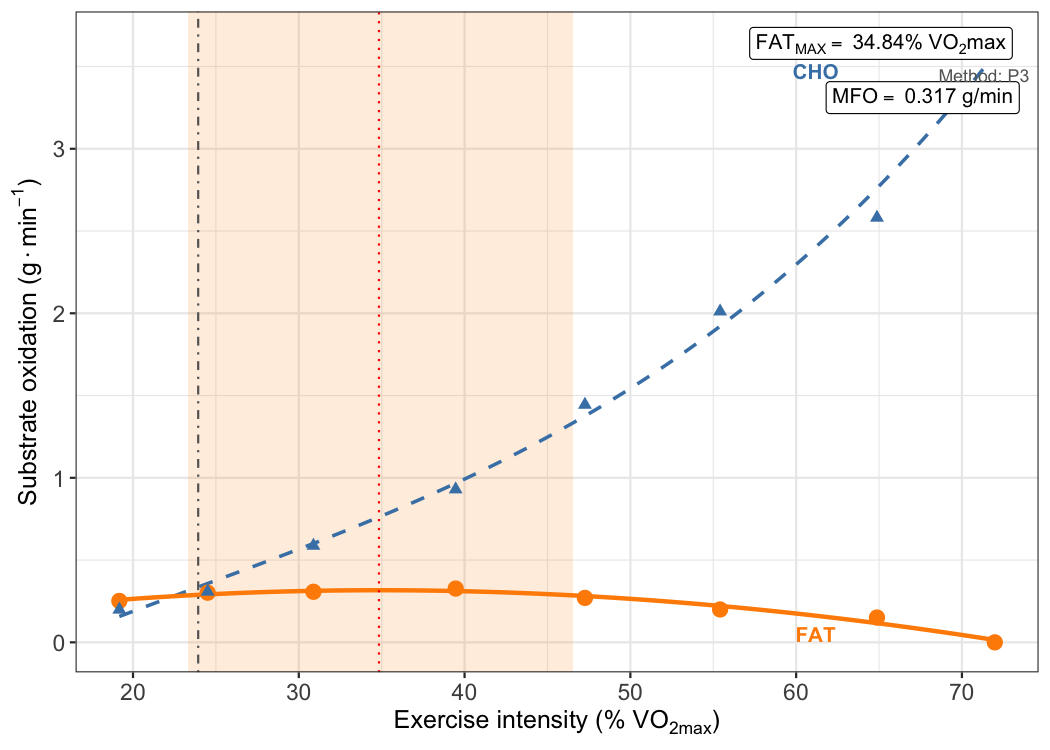
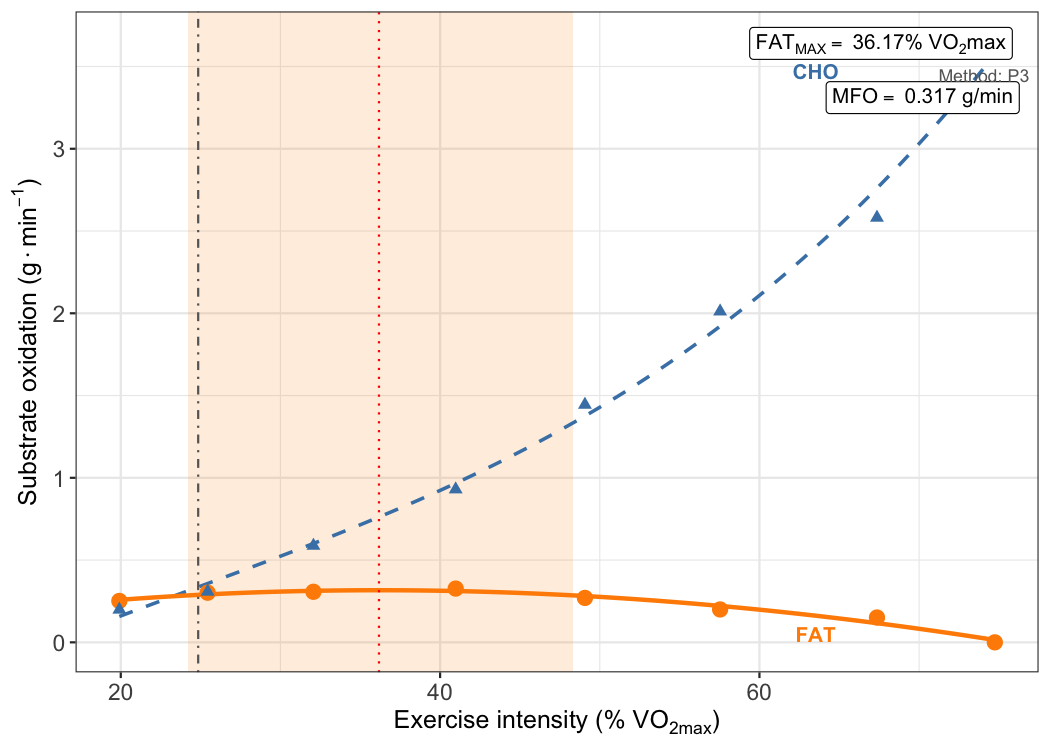
fix: compute VO2max as the highest rolling mean over vo2max_window
VO2max from db_graded was the single highest record, which overestimates
VO2max with short averaging intervals and shifts Fatmax to the left. MFO()
gains vo2max_window (default 30 s); when it is not a multiple of step_time
the number of records is rounded up and a message reports the effective
window. A supplied VO2max now wins over db_graded, with a warning.

MFO() returns VO2max, VO2max_window and VO2max_window_requested; MFOs()
passes vo2max_window through and adds VO2max columns. MFO (g/min) is
unchanged; Fatmax, zone and crossover scale by old/new VO2max (example:
VO2max 3442 -> 3315 ml/min, Fatmax 34.8 -> 36.2 %VO2max).

Refs: SPEC 9.5, 14

diff --git a/docs/SPEC.md b/docs/SPEC.md
@@ -253,7 +253,7 @@ El paquete tiene tres funciones exportadas y seis auxiliares internas, en ocho f
 **9.3 Flujo interno de `MFO()`, paso a paso**
 
 1. Valida `method` (P3/P2/MRER) y `negative_FAT` (truncate/exclude/keep).
-2. VO2max: si se pasa `db_graded`, toma `max(VO2)` de esa tabla; si no, usa `VO2max`.
+2. VO2max: si se pasa `VO2max`, se usa tal cual (y `db_graded` se ignora con aviso). Si no, la mayor media móvil de `vo2max_window` s (30 por defecto) en `db_graded`, redondeando hacia arriba al número de registros (30 s con registros de 20 s = 2 registros = 40 s). `MFO()` devuelve `VO2max`, `VO2max_window` (efectiva) y `VO2max_window_requested`. Hasta la v0.2.0 tomaba `max(VO2)` (corregido en 0.2.1, §9.5).
 3. `met_basal()` → valores de reposo.
 4. `calculate_vars()` → una fila por escalón con VO2, VCO2, HR, RER, CHO, FAT, kcal.
 5. Une la fila basal (escalón 0, con `HR = NA`) con los escalones y calcula `porc_VO2` = VO2/VO2max × 100. A continuación `na.omit()` elimina la fila basal (su HR es NA), de modo que el punto de reposo **no** llega al ajuste ni a `MFO_db` (§9.5).
@@ -274,7 +274,7 @@ El paquete tiene tres funciones exportadas y seis auxiliares internas, en ocho f
 
 **9.5 Observaciones de revisión del código (a corregir o documentar en v0.3.0)**
 
-- **VO2max = valor instantáneo máximo.** `max(db_graded$VO2)` toma el registro más alto, no una media de 30 s. Con datos a 20 s sobreestima el VO2max y desplaza Fatmax hacia la izquierda. Corregir con una media móvil configurable (por defecto 30 s) y permitir pasar el VO2max ya calculado por el laboratorio.
+- **VO2max = valor instantáneo máximo (corregido en 0.2.1).** `max(db_graded$VO2)` tomaba el registro más alto, no una media de 30 s. Con datos a 20 s sobreestima el VO2max y desplaza Fatmax hacia la izquierda. Corregido con `vo2max_window` (30 s por defecto; si no es múltiplo de `step_time` se redondea hacia arriba el número de registros y se informa de la ventana efectiva). Si se pasa `VO2max`, manda sobre `db_graded` (decisiones de Jorge, 10 nov 2026). En los datos de ejemplo: VO2max 3442 → 3315 mL/min, Fatmax 34,8 → 36,2 % VO2max, MFO sin cambios.
 - **Los basales siempre se calculan con Frayn**, aunque el usuario elija otra ecuación para el test. Es inconsistente y debe unificarse con `author`.
 - **Punto basal como escalón 0 (corregido 10 nov 2026).** Versiones anteriores de este documento decían que la fila de reposo entra en el ajuste polinómico. **No es así**: `MFO()` construye la fila basal con `HR = NA` y `na.omit(MFO_db)` la elimina antes de la política de negativos y del ajuste, así que la v0.1.0/v0.2.0 equivale de hecho a `include_basal = FALSE`, y la fila basal tampoco aparece en el `MFO_db` devuelto (los basales solo se ven en `x_CHO`, `x_FAT`, `x_Kcal`). Incluir el reposo como escalón 0 es la práctica de Montes de Oca et al. (2021), pero no todos los autores la siguen. Decisión (Jorge, 10 nov 2026): nuevo argumento `include_basal = FALSE` por defecto (conserva los resultados publicados con la v0.2.0); `TRUE` documentado como opción, porque cambia el P3. Si se incluye, la exclusión del basal no debe depender de que falte HR.
 - **Columna `Load` sintética.** La columna `Load` de `MFO_db` no es la carga medida: se fabrica como `seq_len(n_steps) * step_duration/60 * 5` (5, 10, 15… para escalones de 1 min; 15, 30, 45… para 3 min) y vale `"basal"` en la fila de reposo, lo que además convierte la columna en texto. No debe interpretarse como W ni km/h. Hasta que exista la columna `Load` real (§14) se documentará como índice de escalón o se renombrará; no se usa en ningún cálculo.
@@ -428,7 +428,7 @@ La v0.2.0 asume escalones de igual duración desde el segundo 0. La v0.3.0 intro
 
 **Carga externa.** Si el test incluye una columna `Load` (W o km/h) por registro, `MFO()` devuelve Fatmax también en esa unidad por interpolación sobre la curva ajustada, y la zona Fatmax en W/km/h. Es lo que el entrenador necesita para prescribir.
 
-**VO2max robusto (`VO2max_from_test()`).** Se sustituye `max(VO2)` por la mayor media móvil de `window` segundos (30 s por defecto; opciones 15, 20, 60). Se reportan criterios de maximalidad (meseta de VO2 < 150 mL/min entre cargas, RER > 1,10, HR ≥ 90 % del teórico) y se etiqueta el valor como VO2max o VO2peak según se cumplan. El usuario puede pasar el VO2max calculado por el laboratorio y el paquete no lo recalcula.
+**VO2max robusto (`VO2max_from_test()`).** Se sustituye `max(VO2)` por la mayor media móvil de `window` segundos (30 s por defecto; opciones 15, 20, 60). La media móvil ya está en la 0.2.1 como argumento `vo2max_window` de `MFO()` (helper interno `.vo2max_rolling()`, §9.3); la 0.3.0 la expone como función con criterios de maximalidad. Se reportan criterios de maximalidad (meseta de VO2 < 150 mL/min entre cargas, RER > 1,10, HR ≥ 90 % del teórico) y se etiqueta el valor como VO2max o VO2peak según se cumplan. El usuario puede pasar el VO2max calculado por el laboratorio y el paquete no lo recalcula.
 
 **Criterio de parada y escalones válidos.** `RER_cutoff` pasa a admitir los valores recomendados por nombre (`"classic"` = 1,00; `"sedentary"` = 0,93; `"trained"` = 0,90; Amaro-Gahete 2019). Se añade `min_steps` (6 por defecto) con aviso si la curva se ajusta con menos escalones, y aviso si Fatmax cae en el primer o último escalón (máximo en el borde, probable protocolo inadecuado).
 

diff --git a/README.md b/README.md
@@ -43,11 +43,11 @@ One participant is described by three recordings, exported from the gas
 analyser at a fixed sampling interval (`step_time`, in seconds) with
 columns `VO2` and `VCO2` (mL/min), `RER` and `HR` (bpm):
 
-| Recording                      | Argument    | Used for                                                            |
-|--------------------------------|-------------|---------------------------------------------------------------------|
-| Resting metabolism (15–30 min) | `db_basal`  | Most stable 5-min window → resting VO2, RER, CHO, FAT, kcal         |
-| Incremental MFO test           | `db_MFO`    | Steady-state average of each step → fat oxidation curve             |
-| Maximal graded test            | `db_graded` | VO2max, to express intensity as %VO2max (or pass `VO2max` directly) |
+| Recording                      | Argument    | Used for                                                                                                               |
+|--------------------------------|-------------|------------------------------------------------------------------------------------------------------------------------|
+| Resting metabolism (15–30 min) | `db_basal`  | Most stable 5-min window → resting VO2, RER, CHO, FAT, kcal                                                            |
+| Incremental MFO test           | `db_MFO`    | Steady-state average of each step → fat oxidation curve                                                                |
+| Maximal graded test            | `db_graded` | VO2max = highest mean over `vo2max_window` s (default 30), to express intensity as %VO2max (or pass `VO2max` directly) |
 
 The package ships one anonymised example participant (`basal_df`,
 `MFO_df`, `VO2max_df`).
@@ -79,9 +79,11 @@ result <- MFO(
 result$MFO       # g/min
 #> [1] 0.316712
 result$FAT_MAX   # %VO2max
-#> [1] 34.8358
+#> [1] 36.17038
+result$VO2max    # ml/min, highest 40-s mean (30 s rounded up to 2 records)
+#> [1] 3315
 c(result$FatMax_zone_lower, result$FatMax_zone_upper)
-#> [1] 23.29808 46.55705
+#> [1] 24.19065 48.34069
 ```
 
 ``` r
@@ -95,13 +97,13 @@ The kinetics of the curve are described with the SIN model:
 ``` r
 kin <- MFO_kinetics(result$MFO_db)
 unlist(kin[c("d", "s", "t", "FatMax_SIN", "Fatmin", "R_squared")])
-#>          d          s          t FatMax_SIN     Fatmin  R_squared 
-#>  0.1704067  0.9348865 -0.1209002 34.6633388 73.2892207  0.9972825
+#>           d           s           t  FatMax_SIN      Fatmin   R_squared 
+#>  0.14408038  0.93487545 -0.09259011 35.99157490 76.01287476  0.99727966
 ```
 
 ``` r
 kin$MFO_kinetics_plot
-#> Warning: Removed 27 rows containing missing values or values outside the scale range
+#> Warning: Removed 24 rows containing missing values or values outside the scale range
 #> (`geom_line()`).
 ```
 
@@ -211,8 +213,6 @@ and MRER issues do not affect MFO and Fatmax obtained with P3 or P2.
 - **`method = "MRER"`** takes the observed maximum of 1.7 (1 − RER) VO2.
   This is a measured-values (MV) method, not the two-regression MRER
   procedure of Chenevière et al. (2009).
-- **VO2max** from `db_graded` is the single highest record, not a 30-s
-  average, which can overestimate VO2max and shift Fatmax to the left.
 - **Resting values** are always computed with Frayn’s equations,
   whatever `author` is, and the resting row is not used in the curve
   fit.

diff --git a/NEWS.md b/NEWS.md
@@ -10,6 +10,26 @@ Target: v0.2.1 on CRAN. Scientific background and sources in `docs/SPEC.md`.
 * README rewritten for v0.2.x and generated from an executable `README.Rmd`.
 * Fixed the DOI of Achten et al. (2002) in `DESCRIPTION`.
 
+## Bug fixes
+
+* VO2max from `db_graded` is now the highest rolling mean over the new
+  `vo2max_window` argument (default 30 s) instead of the single highest
+  record. If the window is not a multiple of `step_time`, the number of
+  records is rounded up (30 s with 20-s records = 2 records = 40 s) and a
+  message reports the effective window. Fatmax, the Fatmax zone and the
+  crossover point (%VO2max) increase by the ratio old/new VO2max; MFO (g/min)
+  is unchanged. In the example data VO2max drops from 3442 to 3315 ml/min and
+  Fatmax moves from 34.8 to 36.2 %VO2max. Use `vo2max_window = step_time` to
+  reproduce v0.2.0 (SPEC 9.5, 14).
+* When both `VO2max` and `db_graded` are given, `VO2max` is now used and
+  `db_graded` is ignored with a warning (v0.2.0 silently used `db_graded`).
+
+## New features
+
+* `MFO()` returns `VO2max`, `VO2max_window` (effective, s) and
+  `VO2max_window_requested`; `MFOs()` gains `vo2max_window` and the columns
+  `VO2max` and `VO2max_window`.
+
 ## Known issues (scheduled for this release)
 
 Found while verifying the code against the primary sources (SPEC sections
@@ -23,7 +43,6 @@ Found while verifying the code against the primary sources (SPEC sections
   the second zero of the curve.
 * `method = "MRER"` is a measured-values method on `1.7 * (1 - RER) * VO2`,
   not the two-regression MRER procedure.
-* VO2max from `db_graded` is the single highest record, not a rolling mean.
 * Resting values always use Frayn's equations, and the resting row is dropped
   before the curve fit.
 * Péronnet–Massicotte coefficients are rounded constants rather than derived
